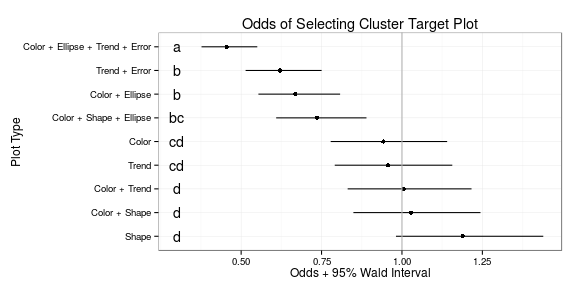
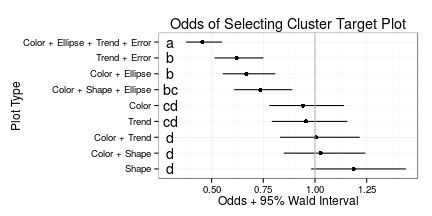
Cluster vs. trend plot size

diff --git a/Presentations/DepartmentalSeminar/DepartmentalSeminar.html b/Presentations/DepartmentalSeminar/DepartmentalSeminar.html
@@ -477,6 +477,10 @@
 <div class="chunk" id="cluster-target"><div class="rimage default"><img src="figure/cluster-target-1.png" title="plot of chunk cluster-target" alt="plot of chunk cluster-target" width="70%" height="auto" class="plot" /></div></div>
   </section>
   
+  <section>
+    <h2> Cluster vs. Trend </h2>
+<div class="chunk" id="cluster-vs-line"><div class="rimage default"><img src="figure/cluster-vs-line-1.png" title="plot of chunk cluster-vs-line" alt="plot of chunk cluster-vs-line" width="70%" height="auto" class="plot" /></div></div>
+  </section>
   
 </section>
 
